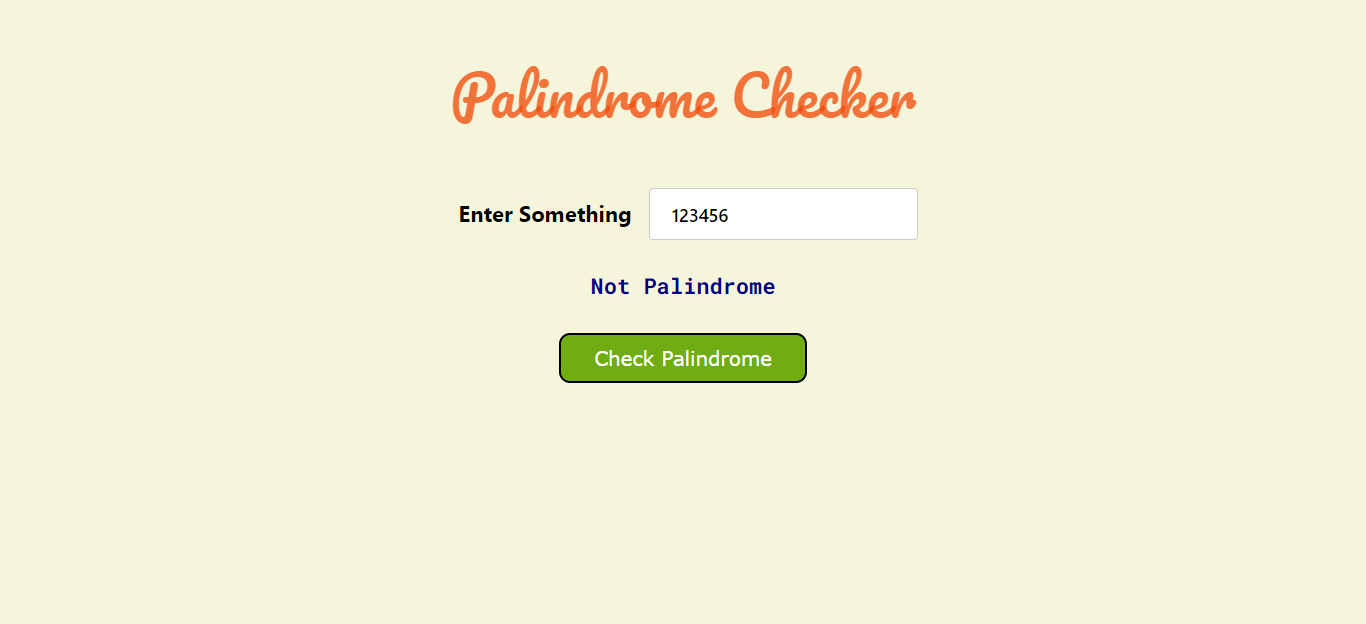
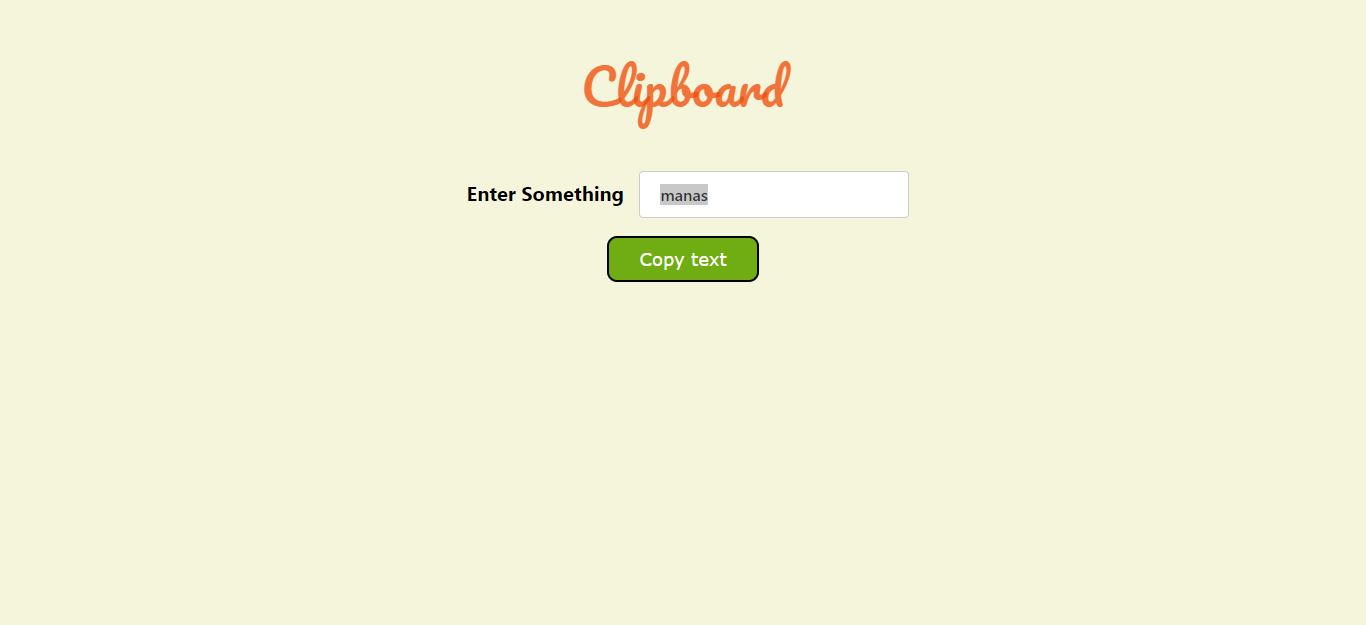
Changes to Clipboard and Readme Updated

Changed region(s): [[0.3382, 0.274, 0.6764, 0.4872], [0.3075, 0.0913, 0.6764, 0.2131], [0.3997, 0.5176, 0.6149, 0.6394]]

diff --git a/Javascript-Project/Clipboard/app.js b/Javascript-Project/Clipboard/app.js
@@ -1,28 +1,36 @@
-function clipboard() {
-  let input = document.getElementById("inputvalue").value;
-  console.log(input);
+//function clipboard() {
+// let input = document.getElementById("inputvalue").value;
+// console.log(input);
+// let ul = document.createElement("ul");
+// ul.setAttribute("class", "unordered");
+// let items = document.getElementById("renderedItems");
+// items.setAttribute("style", "display:block");
+// items.appendChild(ul);
+// let li = document.createElement("li");
+// li.setAttribute("class", "listitems");
+// li.innerHTML = input;
+// ul.appendChild(li);
+// let input = document.getElementById("inputvalue").value;
+// console.log(input);
+// let items = document.getElementById("renderedItems");
+// items.setAttribute("style", "display:block");
+// console.log(items);
+// let p = document.createElement("p");
+// p.setAttribute("class", "p");
+// items.appendChild(p);
+// p.innerHTML = input;
+//}
 
-  let ul = document.createElement("ul");
-  ul.setAttribute("class", "unordered");
+function copy() {
+  let copyText = document.getElementById("inputvalue");
+  console.log(copyText);
+  copyText.select();
+  navigator.clipboard.writeText(copyText.value);
+  //alert("Copied to the Clipboard");
 
-  let items = document.getElementById("renderedItems");
-  items.setAttribute("style", "display:block");
-  items.appendChild(ul);
-
-  let li = document.createElement("li");
-  li.setAttribute("class", "listitems");
-  li.innerHTML = input;
-  ul.appendChild(li);
-  // let input = document.getElementById("inputvalue").value;
-  // console.log(input);
-  // let items = document.getElementById("renderedItems");
-  // items.setAttribute("style", "display:block");
-  // console.log(items);
-  // let p = document.createElement("p");
-  // p.setAttribute("class", "p");
-  // items.appendChild(p);
-  // p.innerHTML = input;
+  var tooltip = document.getElementById("myTooltip");
+  tooltip.innerHTML = "Copied: " + copyText.value;
 }
 
 let btn = document.getElementById("btn");
-btn.addEventListener("click", clipboard);
+btn.addEventListener("click", copy);

diff --git a/Javascript-Project/Clipboard/index.html b/Javascript-Project/Clipboard/index.html
@@ -13,12 +13,28 @@
       <label for="input" class="inputlabel">Enter Something </label>
       <input type="text" name="input" id="inputvalue" />
       <br />
-      <button class="btn btn-success" id="btn">Submit</button>
+      <!-- <button class="btn btn-success" id="btn">Submit</button> -->
+
+      <div class="tooltip">
+        <button class="btn" onclick="copy()" onmouseout="outFunc()">
+          <span class="tooltiptext" id="myTooltip">Copy to clipboard</span>
+          Copy text
+        </button>
+      </div>
     </div>
-    <div id="renderedItems">
-      <!-- <button class="btncopy">Copy Text</button> -->
-    </div>
+    <!-- <div id="renderedItems"></div> -->
 
     <script src="./app.js"></script>
+    <!-- <script>
+      function copyElementText(id) {
+        var text = document.querySelector(".p").innerText;
+        var elem = document.createElement("textarea");
+        document.body.appendChild(elem);
+        elem.value = text;
+        elem.select();
+        document.execCommand("copy");
+        document.body.removeChild(elem);
+      }
+    </script> -->
   </body>
 </html>

diff --git a/Javascript-Project/Clipboard/style.css b/Javascript-Project/Clipboard/style.css
@@ -76,3 +76,42 @@ li {
   color: Red;
   cursor: pointer;
 }
+
+/* -------------- */
+.tooltip {
+  position: relative;
+  display: inline-block;
+}
+
+.tooltip .tooltiptext {
+  visibility: hidden;
+  width: 120px;
+  background-color: #555;
+  color: #fff;
+  text-align: center;
+  border-radius: 6px;
+  padding: 5px;
+  position: absolute;
+  z-index: 1;
+  top: 120%;
+  left: 50%;
+  margin-left: -60px;
+  opacity: 0;
+  transition: opacity 0.3s;
+}
+
+.tooltip .tooltiptext::after {
+  content: "";
+  position: absolute;
+  bottom: 100%;
+  left: 50%;
+  margin-left: -5px;
+  border-width: 5px;
+  border-style: solid;
+  border-color: #555 transparent transparent transparent;
+}
+
+.tooltip:hover .tooltiptext {
+  visibility: visible;
+  opacity: 1;
+}

diff --git a/Javascript-Project/Clipboard/readme.md b/Javascript-Project/Clipboard/readme.md
@@ -1,4 +1,4 @@
-## Palindrom Checker Using Javascript 🔁✔🔄💬
+## Clipboard Using Javascript 🏷📑🖊📋
 
 ![Badge](https://img.shields.io/badge/Manas--Ranjan--Murmu-Javascript--Project-blue) ![Badge](https://img.shields.io/badge/LCO-Full%20Stack%20Javascript%20Bootcamp-orange)
 ![](https://img.shields.io/badge/HTML-CSS-green) ![](https://img.shields.io/badge/JAVASCRIPT-red)
@@ -7,7 +7,7 @@
 
 ---
 
-## Live Link [Demo](https://manas-murmu-palindrome-checker.netlify.app/)
+## Live Link [Demo](https://manas-murmu-clipboard.netlify.app/)
 
 ### Screenshot
 
